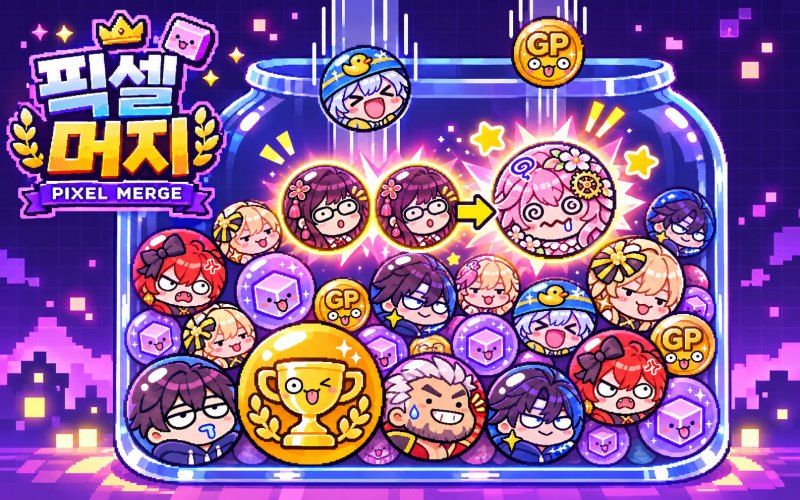
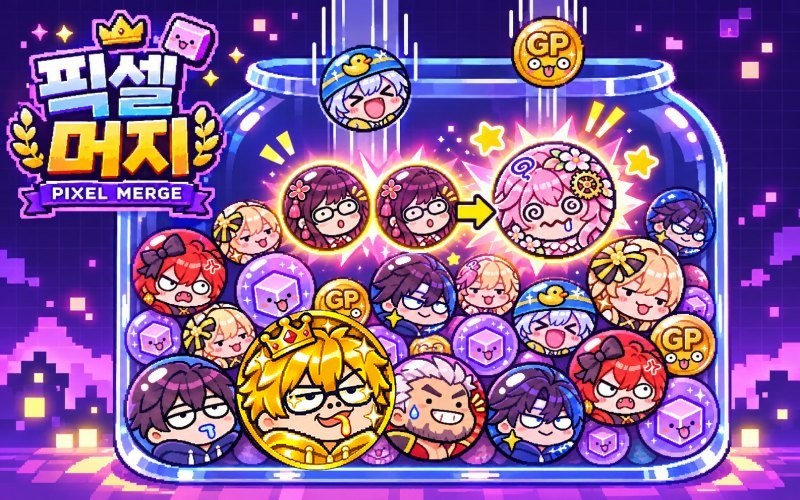
픽셀 머지: 마지막 단계 트로피 → 황금 건모 (공 그림 · 커버 · 아이콘 · 문구)

diff --git a/web/src/lib/pixelmerge/engine.ts b/web/src/lib/pixelmerge/engine.ts
@@ -1,6 +1,7 @@
 /*
  * 픽셀 머지 — 게임 규칙 숫자 (화면 · 서버가 같이 씀)
- *  공을 떨어뜨려 같은 단계끼리 닿으면 다음 단계로 합쳐짐. 11단계 (도트 → … → 트로피), 트로피 둘은 사라지며 보너스.
+ *  공을 떨어뜨려 같은 단계끼리 닿으면 다음 단계로 합쳐짐. 11단계 (도트 → … → 황금 건모), 황금 건모 둘은 사라지며 보너스.
+ *  마지막 단계 key 는 예전 이름 그대로 "trophy" (랭킹 maxTier · 그림 파일 balls/trophy.webp 호환)
  *  오늘의 판 = 날짜 시드로 모두 같은 순서의 공 · 날마다 랭킹 (하루 중 가장 높은 점수)
  *  무한 모드 = 랜덤 순서 · 전체 랭킹 (가장 높은 점수)
  */
@@ -29,7 +30,7 @@ export const TIERS: Tier[] = [
   { key: "forte", name: "포르테", r: 62, col: "#f7a8c8", skill: "encore", sk: "앙코르!" },
   { key: "ivan", name: "이반", r: 72, col: "#c0503a", skill: "quake", sk: "곰 포옹!" },
   { key: "gunmo", name: "건모", r: 84, col: "#27305a", skill: "pause", sk: "Alt+Tab!" },
-  { key: "trophy", name: "트로피", r: 98, col: "#ffcf4a", skill: "trophy", sk: "우승!" },
+  { key: "trophy", name: "황금 건모", r: 98, col: "#ffcf4a", skill: "trophy", sk: "강림!" },
 ];
 export const LAST = TIERS.length - 1;
 /** 떨어뜨리는 공은 앞 5단계에서만 */

diff --git a/web/src/components/PixelMerge/PixelMergeApp.tsx b/web/src/components/PixelMerge/PixelMergeApp.tsx
@@ -198,7 +198,7 @@ export default function PixelMergeApp() {
         title="픽셀 머지"
         en="PIXEL MERGE"
         accent="#FFCF4A"
-        desc="같은 캐릭터끼리 합쳐서 트로피까지 — 오늘의 판 · 무한 모드 랭킹"
+        desc="같은 캐릭터끼리 합쳐서 황금 건모까지 — 오늘의 판 · 무한 모드 랭킹"
         tags={["머지 퍼즐", "물리 퍼즐", "데일리", "픽셀파이트"]}
         className="mx-auto w-full max-w-[520px]"
         rank={rankSpec}
@@ -533,7 +533,7 @@ function Over({
   const share = async () => {
     const text = [
       `🟡 픽셀 머지 ${run.mode === "daily" ? `오늘의 판 #${dayNo(run.day)}` : "무한 모드"}`,
-      `${fmt(r.score)}점 · 최고 ${TIERS[r.maxTier].name}${r.trophies ? ` · 트로피 ${r.trophies}개` : ""}`,
+      `${fmt(r.score)}점 · 최고 ${TIERS[r.maxTier].name}${r.trophies ? ` · 황금 건모 ${r.trophies}번` : ""}`,
       "https://gunmo.my/games/pixelmerge/",
     ].join("\n");
     try {
@@ -559,8 +559,8 @@ function Over({
           <dd>{r.drops}개</dd>
           {r.trophies > 0 && (
             <>
-              <dt>트로피</dt>
-              <dd>{r.trophies}개</dd>
+              <dt>황금 건모</dt>
+              <dd>{r.trophies}번</dd>
             </>
           )}
         </dl>

diff --git a/web/src/app/games/pixelmerge/page.tsx b/web/src/app/games/pixelmerge/page.tsx
@@ -11,7 +11,7 @@ const PATH = "/games/pixelmerge/";
 const TITLE = "픽셀 머지 - 같은 캐릭터 합치기 머지 퍼즐 · 오늘의 판 랭킹";
 const NAME = "픽셀 머지";
 const DESCRIPTION =
-  "떨어뜨린 공이 같은 캐릭터끼리 닿으면 합쳐지는 무료 머지 퍼즐. 도트에서 트로피까지 11단계, 합칠 때마다 터지는 캐릭터 기술과 연쇄. 매일 모두 같은 순서로 나오는 오늘의 판 랭킹과 무한 모드. 설치 없이 PC · 모바일 브라우저에서 바로.";
+  "떨어뜨린 공이 같은 캐릭터끼리 닿으면 합쳐지는 무료 머지 퍼즐. 도트에서 황금 건모까지 11단계, 합칠 때마다 터지는 캐릭터 기술과 연쇄. 매일 모두 같은 순서로 나오는 오늘의 판 랭킹과 무한 모드. 설치 없이 PC · 모바일 브라우저에서 바로.";
 
 export const metadata = pageMeta({
   title: TITLE,

diff --git a/web/src/data/archive.ts b/web/src/data/archive.ts
@@ -23,7 +23,7 @@ const entries: ArchiveEntry[] = [
     tag: "사이트",
     title: "픽셀 머지 — 캐릭터 합치기 물리 퍼즐",
     items: [
-      "PIXEL FIGHT 캐릭터 공을 병에 떨어뜨려 같은 캐릭터끼리 합치는 머지 퍼즐, 도트에서 트로피까지 11단계",
+      "PIXEL FIGHT 캐릭터 공을 병에 떨어뜨려 같은 캐릭터끼리 합치는 머지 퍼즐, 도트에서 황금 건모까지 11단계",
       "합칠 때마다 캐릭터 기술 (화염구 · 질풍 · 번개 끌어당기기 · 낚아채기 · 앙코르 · 곰 포옹 · Alt+Tab 슬로모션), 1.1초 안 연쇄 점수",
       "오늘의 판(날짜 시드, 모두 같은 공 순서) · 무한 모드 랭킹, 오늘의 판 회원 GP · 공 그림(GPT) · 효과음 13종 · 배경음악",
     ],

diff --git a/web/src/components/PixelMerge/PixelMergeRank.tsx b/web/src/components/PixelMerge/PixelMergeRank.tsx
@@ -130,7 +130,7 @@ export function usePixelMergeRank(ready: boolean, today: string) {
               ["한 사람", sum ? `${sum.total}명` : "–", ""],
               ["중간 점수", sum?.median != null ? fmt(sum.median) : "–", ""],
               [
-                "트로피 달성",
+                "황금 건모",
                 sum ? `${sum.trophy}명` : "–",
                 sum?.total ? `${pct(sum.trophy, sum.total)}%` : "",
               ],

diff --git a/web/src/data/navMenu.ts b/web/src/data/navMenu.ts
@@ -138,7 +138,7 @@ export const NAV_GROUPS: NavGroup[] = [
         href: "/games/pixelmerge",
         image: imgPixelmerge,
         label: "픽셀 머지",
-        desc: "같은 캐릭터끼리 합쳐 트로피까지, 오늘의 판 · 무한 모드 랭킹",
+        desc: "같은 캐릭터끼리 합쳐 황금 건모까지, 오늘의 판 · 무한 모드 랭킹",
         icon: "px:pixelmerge",
         badge: "NEW",
       },

diff --git a/web/src/lib/pixelmerge/game.ts b/web/src/lib/pixelmerge/game.ts
@@ -225,7 +225,7 @@ export class MergeGame {
         this.score += gain;
         this.trophies++;
         this.pop(x, y, `+${gain}`, "#ffcf4a", 26);
-        this.pop(W / 2, H * 0.34, "우승 트로피!", "#ffcf4a", 32);
+        this.pop(W / 2, H * 0.34, "황금 건모 강림!", "#ffcf4a", 32);
         this.hooks.sfx?.("trophy");
         this.confetti(x, y);
       } else {
